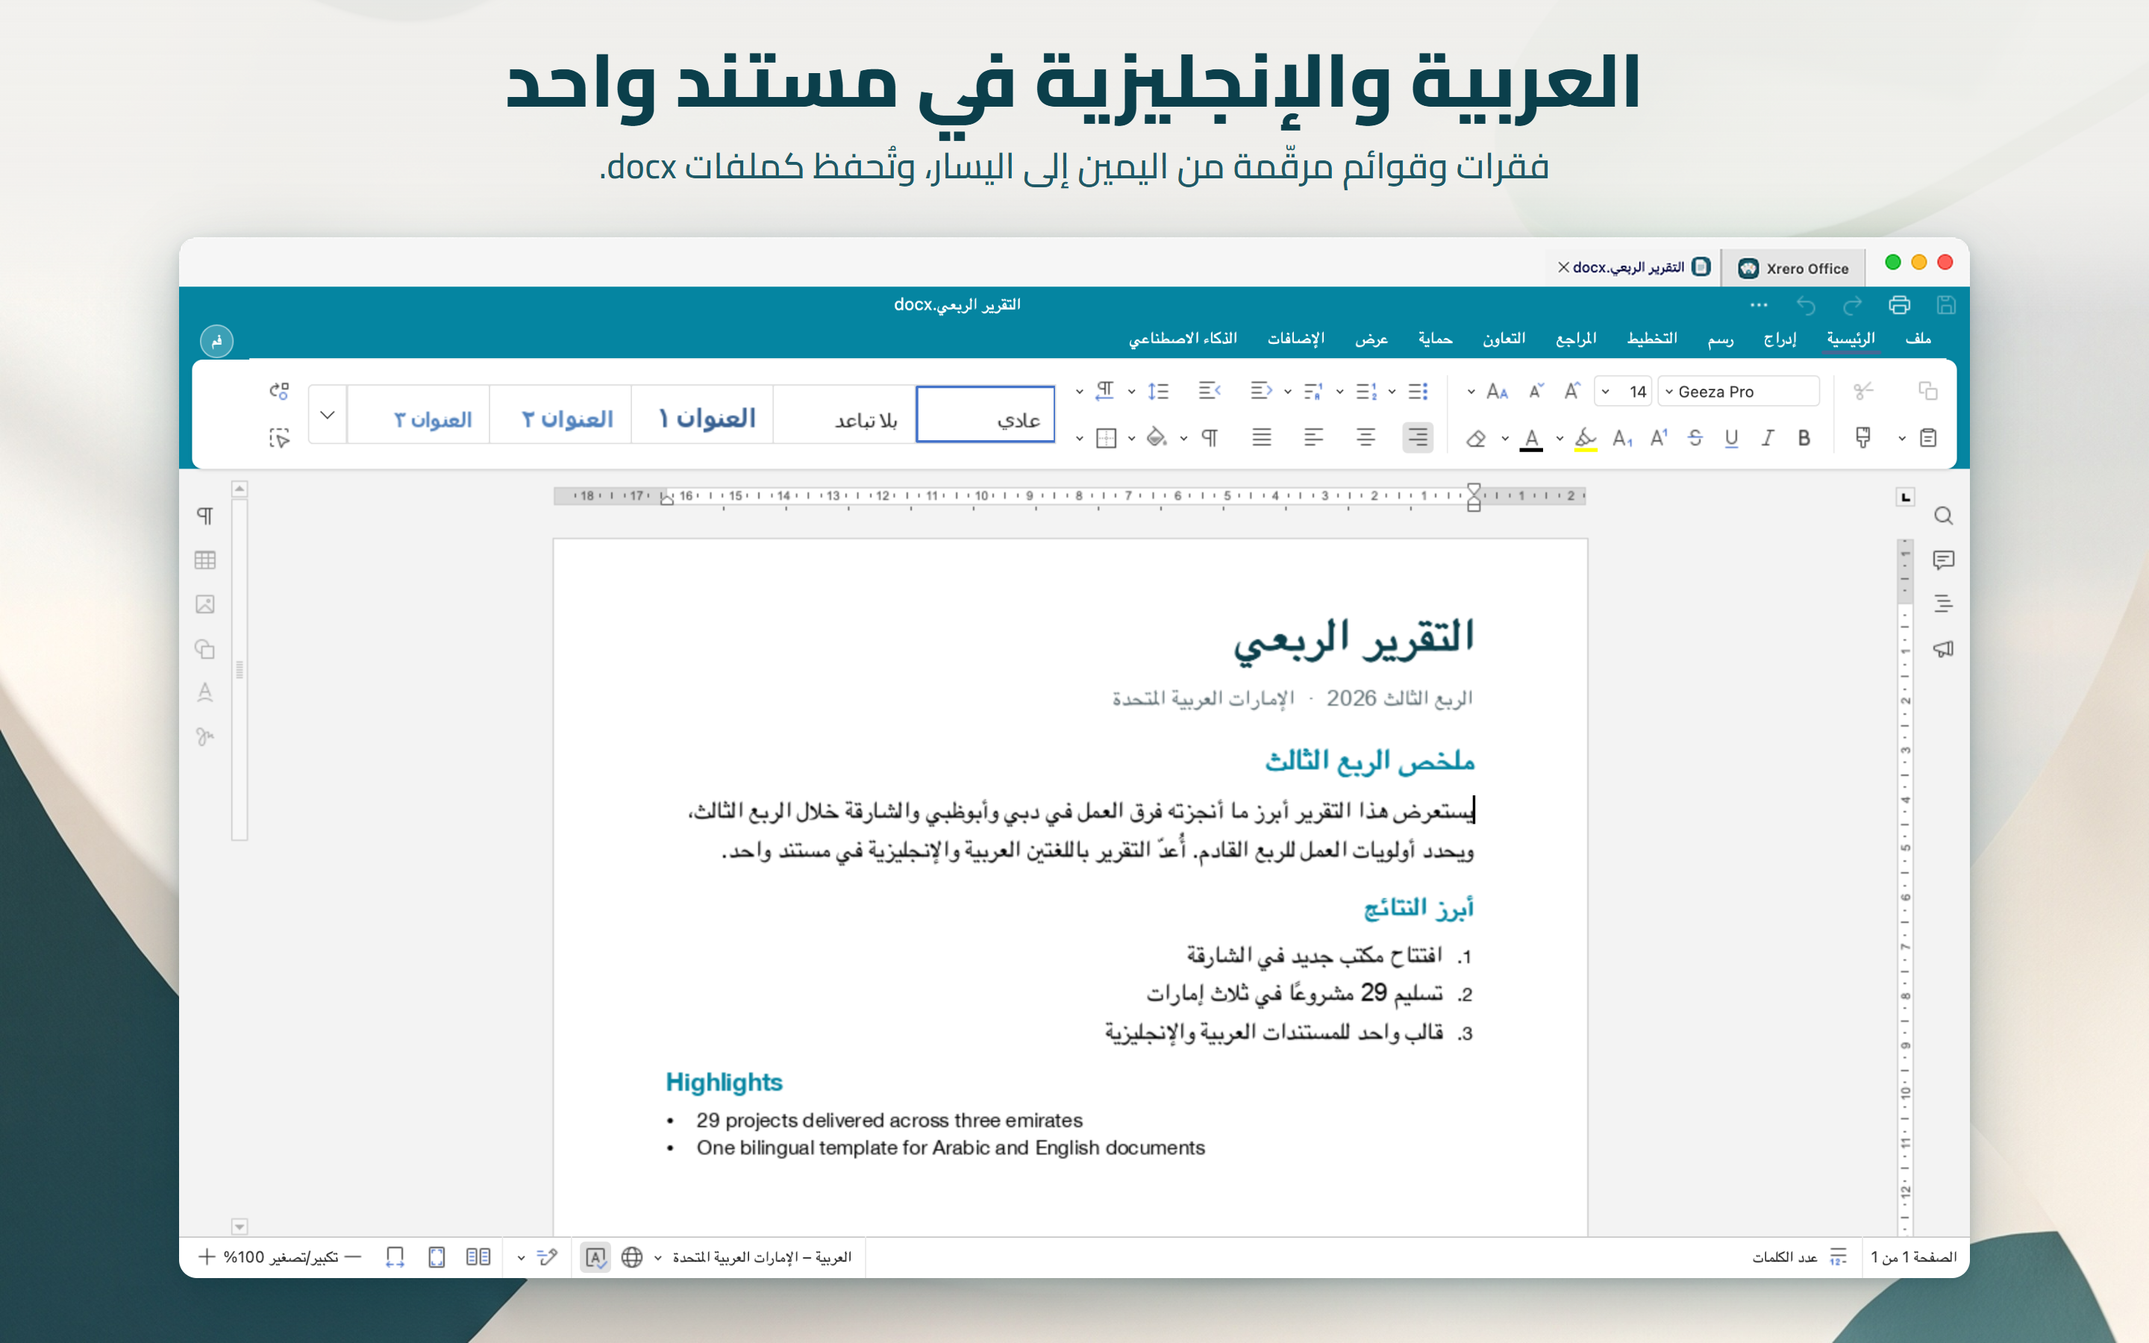
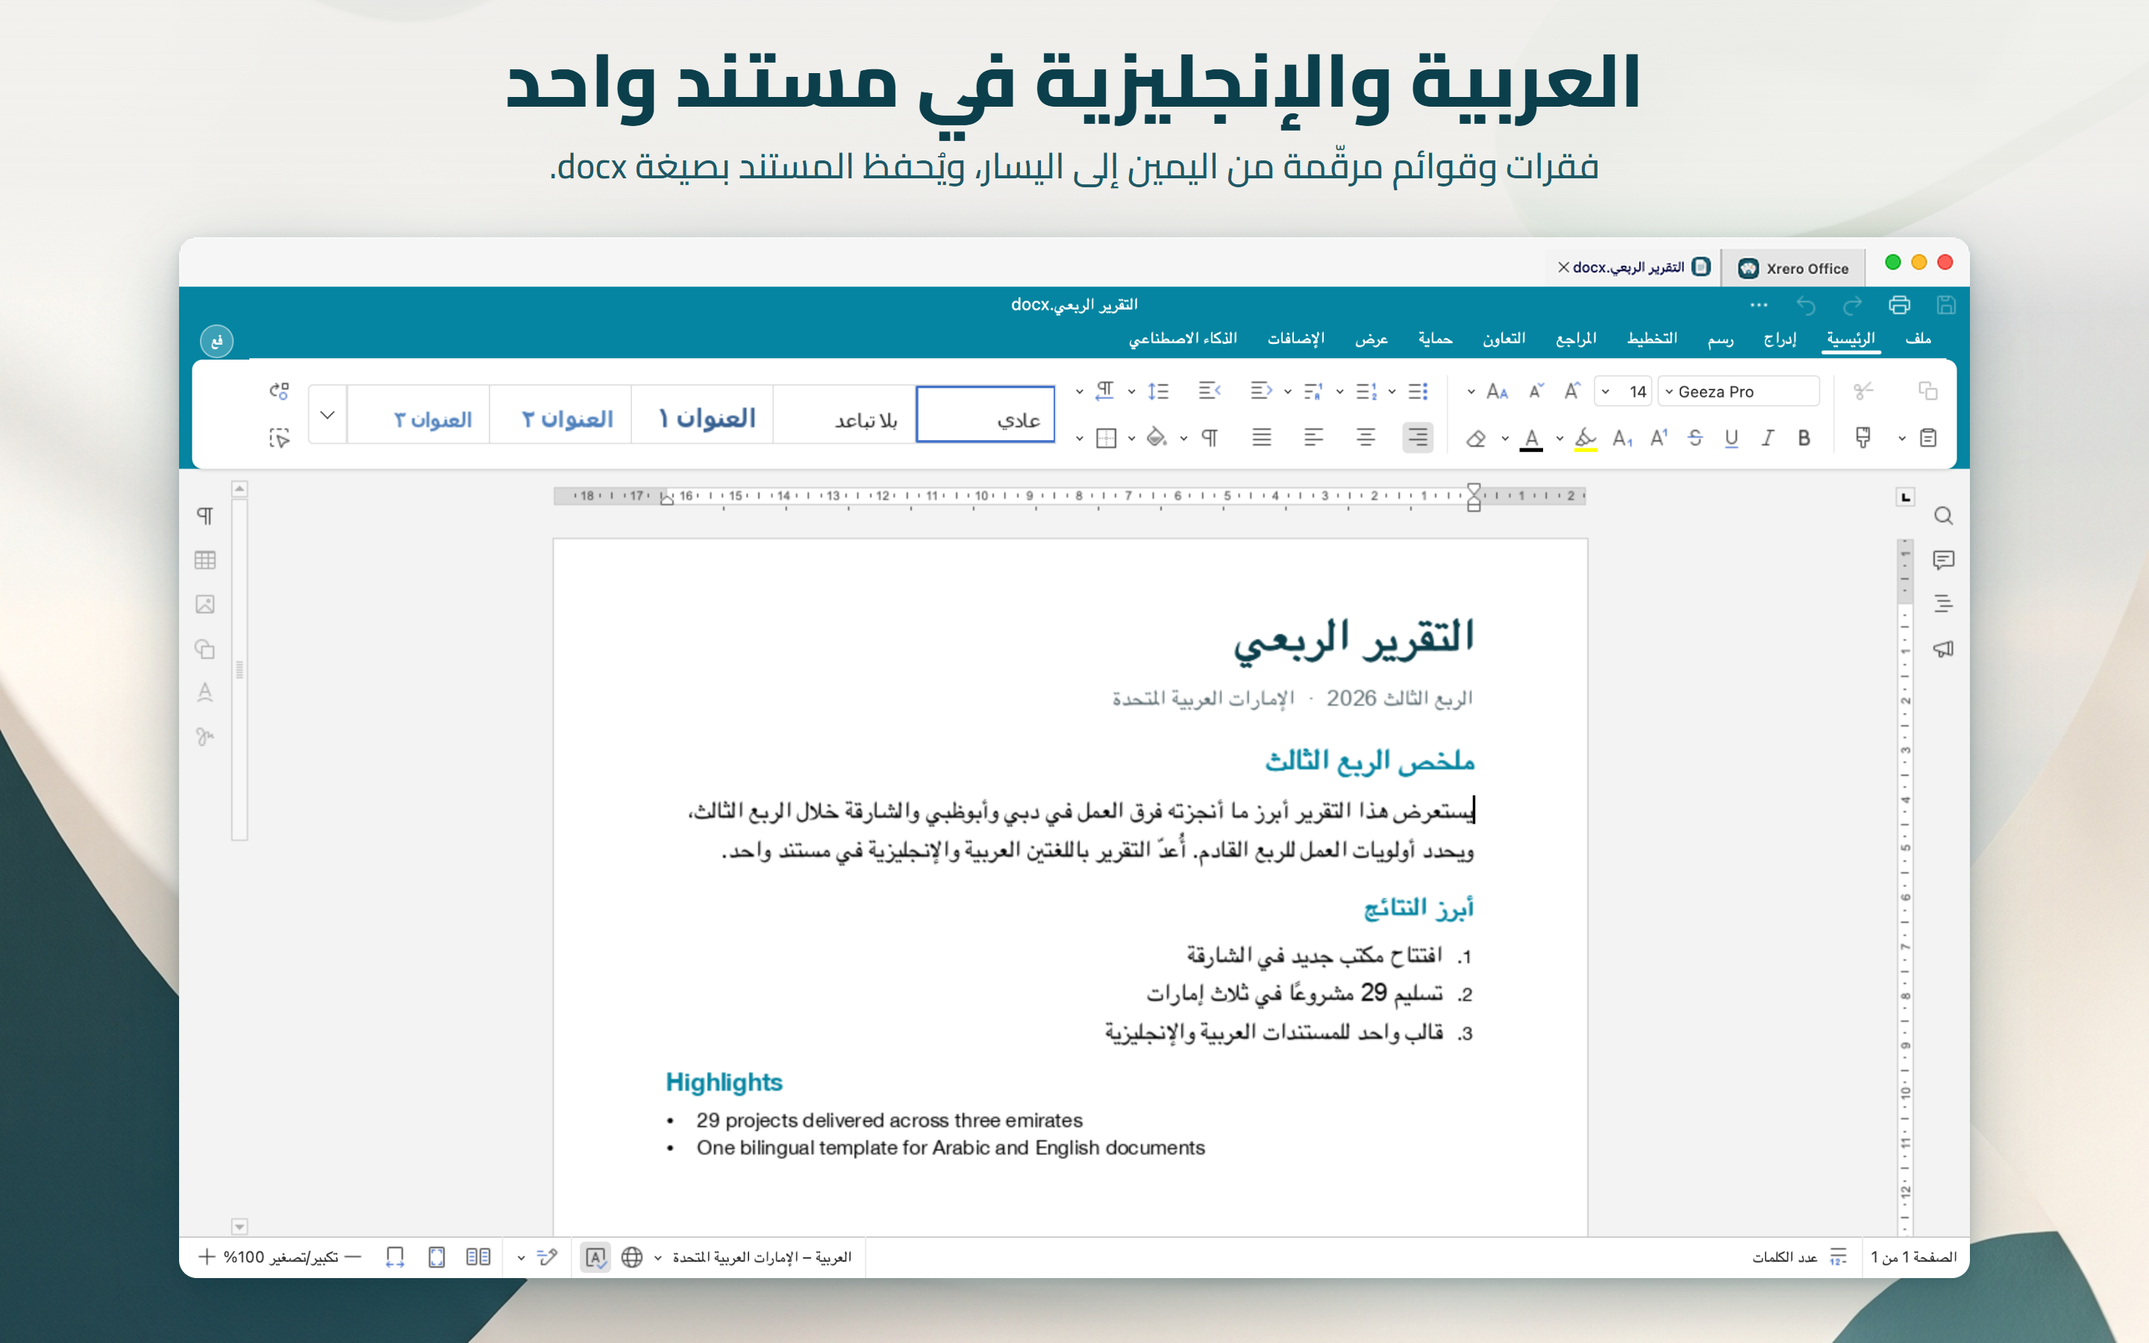
Mac App Store pictures (2880x1800, same names) from build-mac test_only run 43838154183 (run 34, all checks green)
Ten pictures re-captured and recomposed after the round-3 review (three reviewers, 8/10):
- Presentations: the title slide of each deck is bilingual (the title in the deck's
  language and the same title in the other language), so "Presentations in Arabic and
  English" is what the picture shows.
- Start page: seven Recent files at working hours (three earlier files added); the
  account is "Operations team" / "فريق العمليات" (OT / فع - "فم" read as "mouth").
- Arabic editors: the window title centred over the window (XR-TITLE-RTL); the active
  tab's underline white in all eight editor pictures (XR-TABLINE); the Present button's
  label clear of its divider, white chevron, Arabic "بدء العرض" (XR-PRESENT).
- PDF: field text inset 4 pt, "For office use" at the foot of the page, the highlight
  reaching the full stop in both languages, the form round trip held (run 34).
- Arabic sheet: "الإجمالي" in the header and the total row.
- Captions (store_new_icons compose.js; round 2 kept as compose_2026-11-16e.js):
  "بالصيغ", "بصيغة docx / xlsx / pptx" ("ويُحفظ المستند" in the document line), PDF
  "املأ نماذج PDF وعلّق عليها" + "وأضف الملاحظات"; headlines at most 2200 px wide
  (the Arabic start headline set a little smaller).
Looked at each picture at full size and at 50 %. NOTES.md updated (what was fixed, what
was left and why: Arabic-Indic digits in the style names, Geeza Pro's own digits, the AI
[…]

Changed region(s): [[0.25, 0.0933, 0.75, 0.1556], [0.4375, 0.2178, 0.5312, 0.2489]]

diff --git a/mas/store/NOTES.md b/mas/store/NOTES.md
@@ -5,48 +5,88 @@ Five pictures per language, in the listing's order (`mas/mas_metadata.py` SHOTS)
 | # | en-US | ar-SA | What it shows |
 |---|-------|-------|---------------|
 | 1 | mac_en_editor.png | mac_ar_editor.png | the document editor, an Arabic-led report with an English part, caret in the Arabic summary |
-| 2 | mac_en_start.png | mac_ar_start.png | the start page, the signed-in account (a team), the four demo files under Recent files |
+| 2 | mac_en_start.png | mac_ar_start.png | the start page, the signed-in account (a team), seven demo files under Recent files |
 | 3 | mac_en_sheet.png | mac_ar_sheet.png | the spreadsheet editor: E5 selected (`=SUM(B5:D5)` in the formula bar), the file's column chart |
-| 4 | mac_en_slides.png | mac_ar_slides.png | the presentation editor: caret after slide 1's title, the four slides in the side panel |
+| 4 | mac_en_slides.png | mac_ar_slides.png | the presentation editor: caret after the title of the bilingual title slide, the four slides in the side panel |
 | 5 | mac_en_pdf.png | mac_ar_pdf.png | the PDF editor: Comment tab, a form filled in the app, a highlight, a pen circle and a sticky note made in the app |
 
 The document picture is first: it shows the app's point (Arabic and English, right to left) in the picture that
 search results show. The start page is second and carries the account line next to the account pill.
 
 All ten are real captures of the App Store variant (sandboxed test copy, ad hoc) on the CI Mac:
-`build-mac.yml` with `test_only=true` runs `mas/store_capture.py`. The pictures here come from run 31
-(43821062340, every capture check green). They are composed with
+`build-mac.yml` with `test_only=true` runs `mas/store_capture.py`. The pictures here come from run 34
+(43838154183, every capture check green; round 3 - runs 32 and 33 each failed one new check, below). They are
+composed with
 `v20/mac/store_new_icons` (`prep.py` + `compose.js`, Cairo, the same background and window place for all ten:
 the window 2400 px wide, 83 % of the picture). English pictures come from the app in en-US, Arabic pictures from
 the app in ar-SA. Demo files only (`mas/store_demo.py`): neutral UAE content, counts and dates, no money amounts,
-no names, no e-mail addresses. The account shown is a team ("Projects team" / "فريق المشاريع"), stored locally;
-nothing talks to xrero.com during the capture.
+no names, no e-mail addresses. The account shown is a team ("Operations team" / "فريق العمليات", initials OT / فع),
+stored locally; nothing talks to xrero.com during the capture. (Round 3: the earlier "فريق المشاريع" gave the joined
+initials "فم", which an Arabic reader takes for the word "mouth". The initials skip the article, as before.)
 
 How each picture is made (and what is not done in the app):
 - **Window**: one size for all ten, 1376 x 800 pt. `store_capture.py` measures, in the English and Arabic
   spreadsheet and presentation editors, the narrowest window at which no ribbon group folds into "More"
   (`ribbon-fit.json`), and `mas/hidpi.swift` gives the CI display a 1600 x 1200 mode for it.
-- **Start page**: the four demo files are opened from `/Users/Shared/Office files` (the Recent files' location
-  column shows that folder, not the CI checkout), and their times are set to working hours (10:15-10:40) in the
-  app's own recent list.
+- **Start page**: seven demo files are opened from `/Users/Shared/Office files` (the Recent files' location
+  column shows that folder, not the CI checkout), and their times are set to working hours (09:30-10:40) in the
+  app's own recent list. Round 3: four rows left the lower third of the window empty, so three small files a user
+  of the same team would have opened earlier come first (`store_extra_*`: an office guide, a training plan, a
+  welcome slide - real files, opened in the app; only their names, kinds and times are in the picture).
 - **Sheet**: the table's totals are SUM formulas. E5 is selected the way the name box does it (`asc_findCell`).
   The chart is the file's own chart part (16 x 9.4 cm, so it fills the columns beside the table), drawn by the
   editor; its legend is a list on the right (one row paired the colours with the wrong quarters when read right to
   left). Column A is indented one step from its start side.
 - **Slides**: a real click into slide 1's title. The caret is then put after the title's last letter with the
   editor's own `MoveCursorToEndPos`, because the End key does not do that on macOS. The title's frame sits 0.3 in
-  clear of its first and last letter.
+  clear of its first and last letter. Round 3: the headline says "Presentations in Arabic and English", so the
+  title slide of each deck is bilingual, as UAE decks often are: the title in the deck's language, and under it the
+  same title in the other language ("مراجعة الربع الثالث" in the English deck, "Q3 review" in the Arabic one),
+  each paragraph in its own direction and face.
 - **PDF**: the Comment tab is clicked, the footer line is selected with the mouse and highlighted with the Highlight
   button, a circle is drawn around the date field with the red pen, and a sticky note is added with right click >
   Add comment. Then the form is filled the way a user does it: Tab to each field, type, and Enter to tick the
   boxes. After the pictures the form is saved (Cmd+S), read back from the file and opened again in the app: the
-  fields, the ticks and the three marks are all kept (run 31, both languages).
+  fields, the ticks and the three marks are all kept (run 34, both languages). Round 3: the highlight stopped one
+  letter short, before the line's full stop. The mouse drag now ends past the line (3 pt in English, 15 pt in
+  Arabic), the capture reads back what the selection holds and selects again (further past, then from the other
+  end) while the full stop is missing, and it checks that the highlight's rectangle covers the line. In English
+  that was enough (run 32). In Arabic every drag left out the line's last letter (runs 32 and 33): the app's PDF
+  viewer drops the last letter of a right-to-left line from a selection that runs past the line's end. So the
+  Arabic demo line ends with a no-break space after the full stop (invisible; MuPDF keeps it in the same span),
+  which is the letter left out; the full stop is highlighted (run 34). A real Arabic PDF line selected this way
+  loses its last letter in the app (the viewer code is the same sdkjs as on Windows, not checked there); not changed
+  in the app. The text fields have a 2 pt border with no colour: the editor insets a
+  field's text by twice its border width (sdkjs `CTextField.RecalculateContentRect`), so typed text sits 4 pt in
+  from the frame, which is drawn on the page just outside the field. "For office use" is at the foot of the page,
+  so the window's bottom edge runs through blank page, not under that heading.
 - **Caret**: for the window and Retina captures of pictures 1, 4 and 5, the editor's caret blink timer is paused
   with its caret shown, then started again. This shows the editor's own caret at its own place, not an added one.
 
 ## Real-UI issues found while making them
 
 Fixed in the Mac app (`scripts/patch_bundle.py` / `web/xr-*.js`, Mac bundle only; the Windows payload is unchanged):
+- **Window title right to left** (round 3, XR-TITLE-RTL): in every Arabic editor the file name over the ribbon sat
+  about 90 pt left of the window's centre (English: centred). Not a composing effect - the editor's header centres
+  the title by padding it by the difference between the space on its left and on its right (`Header.js`
+  `updateDocNamePosition`), and both measures are physical: the box's left offset and the width of the next header
+  group. Right to left the next group is on the left and the quick-access buttons on the right, so both measured the
+  left side and the title was centred in the space beside the buttons. Right to left the two sides now swap; left
+  to right nothing changes. The capture checks the title's centre against the window's in all eight editor pictures.
+  The Windows app has the same fault.
+- **Active ribbon tab** (round 3, XR-TABLINE): its underline kept each editor's own colour (documents #446995,
+  spreadsheets #3A8056, presentations #B75B44, PDF #AA5252); on the one teal header the documents and spreadsheet
+  underlines all but disappeared, so no tab looked active. It is white in all four, like the tab names. Setting
+  only the colour variables (`--highlight-toolbar-tab-underline-*`, !important on `.theme-white`, the same file and
+  selector as the teal header) was not enough on the Mac (run 32 still measured the editors' own colours, although
+  Chrome drew that stylesheet white), so the underline itself is set white as well (`border-top-color`); run 33 and
+  34 measured white in all eight editor pictures.
+- **Present button** (round 3, XR-PRESENT, the presentation editor's status bar): its label ran into the split
+  divider (Bootstrap's `.btn-group .btn + .btn` margin wins over the payload's 7 px), and the chevron was half dark
+  on the red (only its top border was made white). The label now ends 9 px before the divider, in the Mac system
+  font, and the chevron is white. The Arabic label was "عرض تقديمي" - the noun "a presentation", the Presentation
+  app's own name on the start page - on a button that starts the slide show; it is now "بدء العرض", the words of
+  the button's own tooltip. The button keeps its red (the app's colour for it, also on Windows).
 - **PDF forms, ticks lost on Save** (run 28): a check box ticked with Enter showed the tick, but Save wrote it as
   "Off", so the saved file and the reopened copy had no ticks, and the editor logged "changesError". sdkjs 9.4
   `CPDFDoc.EnterDownActiveField` toggles the box outside an editing action and never commits it; a mouse click
@@ -63,8 +103,10 @@ Fixed in the Mac app (`scripts/patch_bundle.py` / `web/xr-*.js`, Mac bundle only
   Arabic folder names inside a path still read right to left.
 - **Arabic start page**: the Recent files' date column said "مفتوحة مؤخرا"; now "آخر فتح" (the English
   column is "Last opened"). The four app cards use the plain kit pictures (no English badge on them).
-- **Arabic account initials**: the article is skipped ("فريق المشاريع" -> "فم", not "فا"), on the start page pill
-  and on the editors' account chip.
+- **Arabic account initials**: the article is skipped ("فريق العمليات" -> "فع", not "فا"), on the start page pill
+  and on the editors' account chip. Two Arabic initials are drawn joined, so some pairs read as a word (round 3:
+  "فم" = "mouth"); the pictures' team name was chosen so the pair is not a word. Real users' pairs can still form
+  one (for example "مع"); not changed in the app.
 - **Arabic spreadsheet formula bar**: a formula took the right-to-left direction of the interface, so
   `=SUM(B5:D5)` read `SUM(B5:D5)=`. Each line now takes its direction from its own text
   (`unicode-bidi: plaintext`) and stays right aligned (`XR-FBIDI`).
@@ -90,8 +132,8 @@ Not fixed (engine behaviour; the capture works around it or avoids it):
   المملكة العربية السعودية". The document editor reports the same kind of text as "...الإمارات العربية المتحدة".
   The Arabic slides picture shows the Saudi Arabia wording.
 - **Caret on the dark title slide** (picture 4): the caret is held shown (checked), but the editor draws it dark,
-  so it does not stand out on the ink-coloured slide. The title's selection frame and the ribbon (its font, 54,
-  Bold) show the edit.
+  so it does not stand out on the ink-coloured slide (run 33 caught it light once; run 34, the pictures, dark). The
+  title's selection frame and the ribbon (its font, 54, Bold) show the edit.
 - **Caret in the Arabic Notes field** (picture 5, ar): the field is right aligned, and the engine draws the caret
   at the right edge of its Arabic line after typing, not at the line's left end.
 - **Spreadsheet chart with a reversed category axis** (right-to-left chart, `orientation maxMin`): the editor
@@ -107,7 +149,25 @@ Not fixed (engine behaviour; the capture works around it or avoids it):
   in the pictures, which take only the title bar from that capture.
 - The editors are opened with the CI account's name in their address (`username=Anka`). That name is not shown
   anywhere on screen; the capture checks the visible text and the title bars for user names and e-mail addresses.
+- **Digits in the Arabic document picture** (round 3 review): the style gallery says "العنوان ١ / ٢ / ٣"
+  (Arabic-Indic digits: the editor's own Arabic text for its heading styles), while the rest of the window uses
+  Western digits. No demo or capture choice changes the editor's style names, and it is the translation's choice
+  (common in ar-SA), not a fault, so it is left as the app shows it. Western digits inside Arabic lines ("29",
+  "2026") look taller and heavier than the Arabic around them: they are Geeza Pro's own Western digits - the
+  editor sets every letter of a right-to-left run in its complex-script face (sdkjs `GetFontSlot`: isRTL ->
+  the CS slot), so the run's Latin face plays no part. Only another Arabic face would change them; Geeza Pro stays.
+- **"AI" ribbon tab**: the AI plugin's tab is real interface and stays in the pictures; no caption or store text
+  makes a claim about it.
 
 Store text: the description in `mas_metadata.py` now says "plus PDF viewing, form filling and comments" (it said
 "plus PDF viewing" while picture 5 shows a form filled and annotated), after the round trip above held in run
-31. Not sent to App Store Connect from here (`mas-meta` is a separate, owner-run step).
+31. Not sent to App Store Connect from here (`mas-meta` is a separate, owner-run step). The round-3 review also
+asked to rename the description's headings "REAL ARABIC SUPPORT" / "دعم حقيقي للعربية" and "A FULL EDITOR, NOT A
+VIEWER" / "محرر كامل وليس مجرد عارض" (comparison wording the captions no longer use). That is the owner's text and it
+does not contradict the pictures, so it is left for the owner.
+
+Captions (round 3, `store_new_icons/compose.js`; round 2 kept as `compose_2026-11-16e.js`): "بالصيغ" instead of
+"مع الصيغ" (a word-for-word "with"), "بصيغة docx / xlsx / pptx" instead of "كملفات" (and in the document line the
+document is what is saved, not its paragraphs: "ويُحفظ المستند بصيغة docx"), the PDF headline "املأ نماذج PDF وعلّق
+عليها" and its line ending "وأضف الملاحظات" (so "أضف تعليقات" is not said twice). No headline is wider than 2200 px:
+the Arabic start headline ran the window's full width, so it is set a little smaller rather than reworded.
